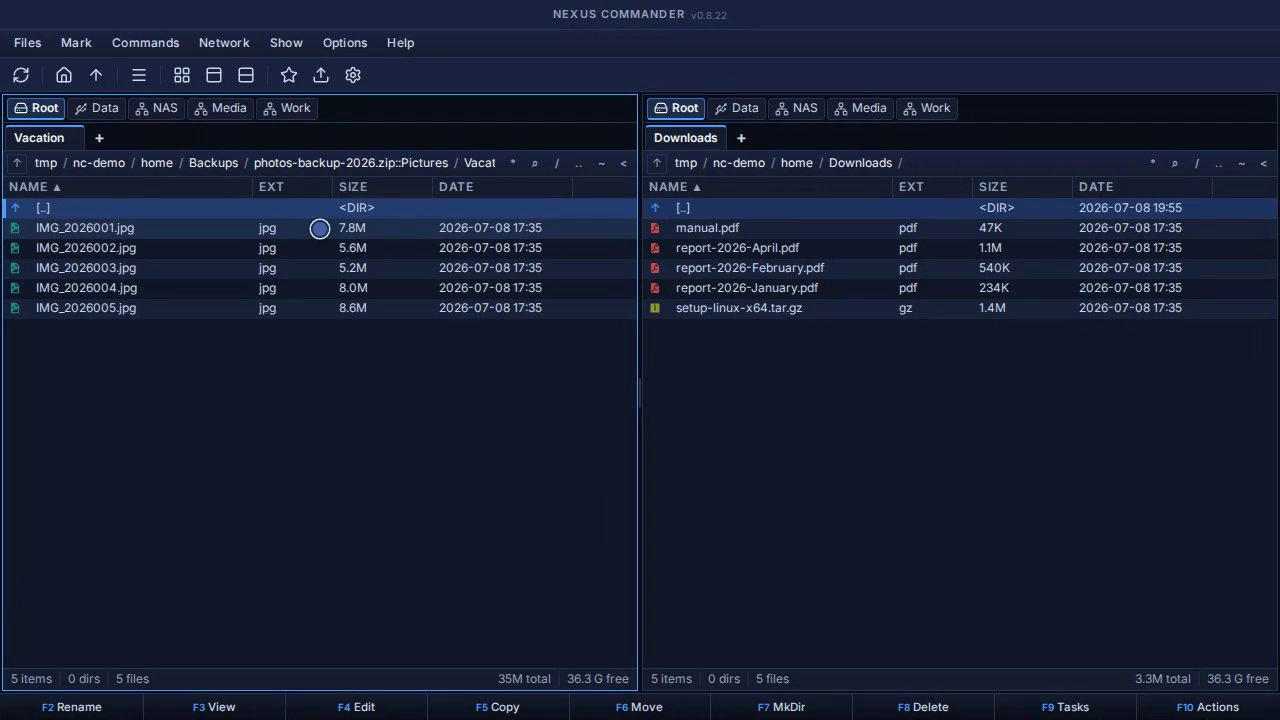
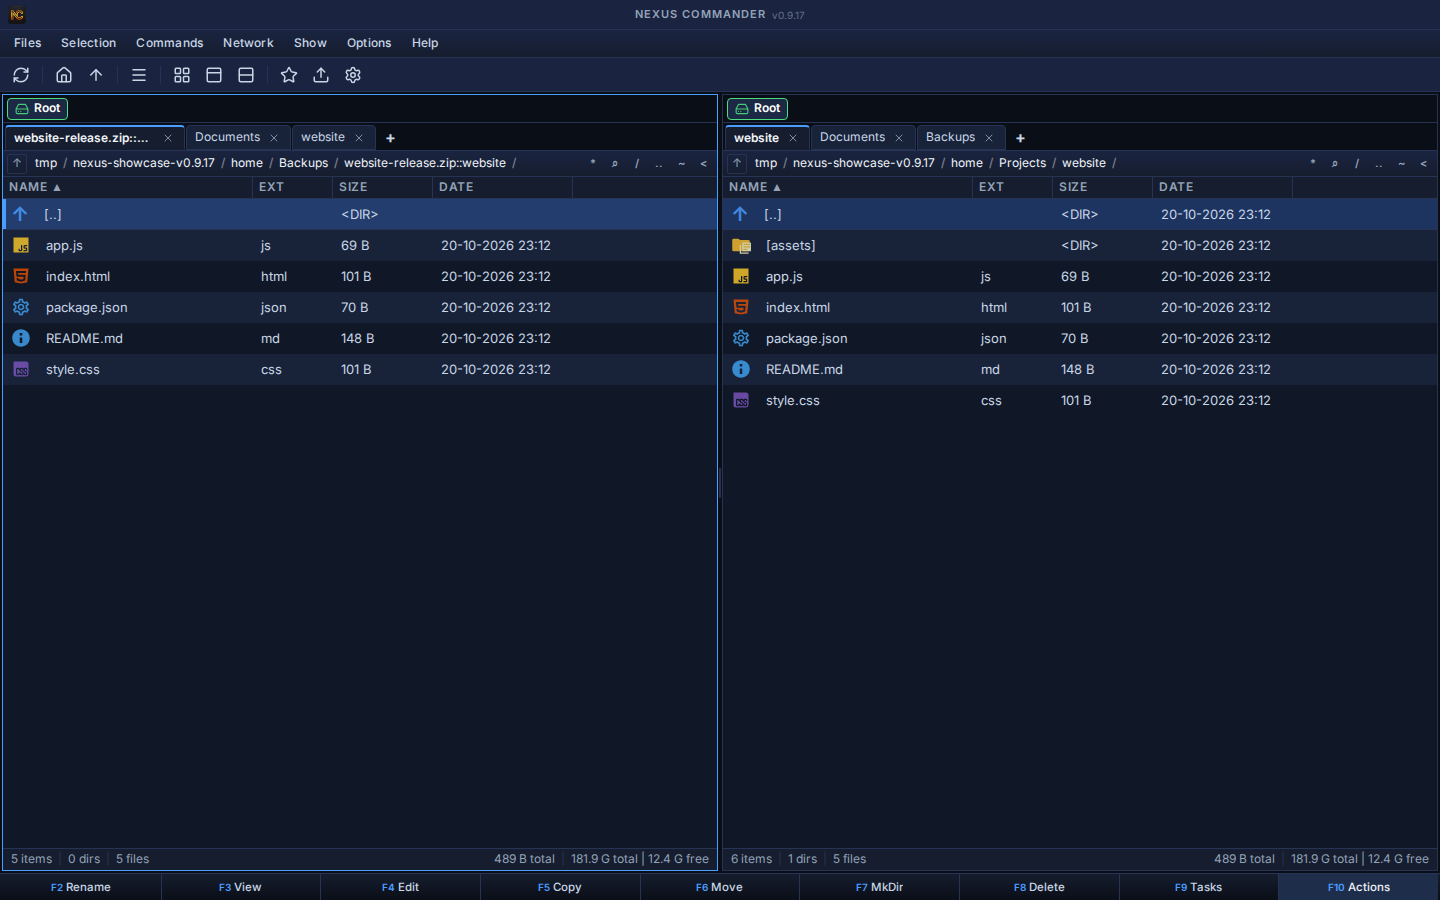
Release v0.9.17

diff --git a/apps/web/README.md b/apps/web/README.md
@@ -2,7 +2,7 @@
 
 A web-native, dual-pane (orthodox) file manager. SvelteKit frontend, Express backend, installable as a PWA — no Electron.
 
-[![NexusCommander dual-pane browsing demo](docs/media/demo-videos/01-dual-pane-browsing.gif)](docs/media/demo-videos/01-dual-pane-browsing.mp4)
+[![NexusCommander 0.9.17 — dual-pane browsing](docs/media/screenshots/dual-pane-browsing.png)](docs/media/screenshots/dual-pane-browsing.png)
 
 ## The Origin Story
 
@@ -30,17 +30,17 @@ Nexus Commander is a dual-pane file manager with a SvelteKit frontend and an Exp
 
 ## See It in Action
 
-Click a preview to watch the short demo.
+Screenshots from **v0.9.17**, using demonstration files. Click a preview to see it at full size.
 
 | Core workflow | Themes |
 | --- | --- |
-| [![Dual-pane browsing](docs/media/screenshots/dual-pane-browsing.png)](docs/media/demo-videos/01-dual-pane-browsing.mp4)<br>**Dual-pane browsing** | [![Light themes](docs/media/screenshots/light-themes.png)](docs/media/demo-videos/04-light-themes.mp4)<br>**Light theme gallery** |
-| [![Copy files with F5](docs/media/screenshots/copy-with-f5.png)](docs/media/demo-videos/02-copy-with-f5.mp4)<br>**Copy files with F5** | [![Light mode in use](docs/media/screenshots/light-mode-in-use.png)](docs/media/demo-videos/05-light-mode-in-use.mp4)<br>**Light mode in use** |
-| [![Browse archives as folders](docs/media/screenshots/archives-as-folders.png)](docs/media/demo-videos/03-archives-as-folders.mp4)<br>**Browse archives as folders** | [![Dark themes](docs/media/screenshots/dark-themes.png)](docs/media/demo-videos/06-dark-themes.mp4)<br>**Dark theme gallery** |
+| [![Dual-pane browsing](docs/media/screenshots/dual-pane-browsing.png)](docs/media/screenshots/dual-pane-browsing.png)<br>**Dual-pane browsing** | [![Light themes](docs/media/screenshots/light-themes.png)](docs/media/screenshots/light-themes.png)<br>**GitHub Light** |
+| [![Copy files with F5](docs/media/screenshots/copy-with-f5.png)](docs/media/screenshots/copy-with-f5.png)<br>**Copy files with F5** | [![Light mode in use](docs/media/screenshots/light-mode-in-use.png)](docs/media/screenshots/light-mode-in-use.png)<br>**Catppuccin Latte** |
+| [![Browse archives as folders](docs/media/screenshots/archives-as-folders.png)](docs/media/screenshots/archives-as-folders.png)<br>**Browse archives as folders** | [![Dark themes](docs/media/screenshots/dark-themes.png)](docs/media/screenshots/dark-themes.png)<br>**Dracula** |
 
 ### Nortonly Dark Theme
 
-[![NexusCommander using the Nortonly dark theme](docs/media/screenshots/nortonly.png)](docs/media/demo-videos/06-dark-themes.mp4)
+[![NexusCommander using the Nortonly dark theme](docs/media/screenshots/nortonly.png)](docs/media/screenshots/nortonly.png)
 
 ## Stack
 

diff --git a/README.md b/README.md
@@ -1,6 +1,19 @@
 # NexusCommander (monorepo)
 
-Eén repo met een **gedeelde Svelte-frontend** die twee shells voedt:
+Eén repo met een **gedeelde Svelte-frontend** die twee shells voedt.
+
+[![NexusCommander 0.9.17 — dubbele panelen met het Midnight-thema](apps/web/docs/media/screenshots/dual-pane-browsing.png)](apps/web/docs/media/screenshots/dual-pane-browsing.png)
+
+Actuele screenshots van de webversie **0.9.17**, met demonstratiebestanden. Klik op een afbeelding voor het volledige formaat.
+
+| Bestandsbeheer | Thema's |
+| --- | --- |
+| [![Kopiëren met F5](apps/web/docs/media/screenshots/copy-with-f5.png)](apps/web/docs/media/screenshots/copy-with-f5.png)<br>Kopiëren met F5 | [![GitHub Light](apps/web/docs/media/screenshots/light-themes.png)](apps/web/docs/media/screenshots/light-themes.png)<br>GitHub Light |
+| [![ZIP-archief als map openen](apps/web/docs/media/screenshots/archives-as-folders.png)](apps/web/docs/media/screenshots/archives-as-folders.png)<br>Archieven als mappen | [![Dracula](apps/web/docs/media/screenshots/dark-themes.png)](apps/web/docs/media/screenshots/dark-themes.png)<br>Dracula |
+
+[Alle screenshots en thema's →](apps/web/README.md#see-it-in-action)
+
+## Monorepo
 
 ```
 NexusCommander/

diff --git a/apps/web/docs/media/screenshots/README.md b/apps/web/docs/media/screenshots/README.md
@@ -1,0 +1,19 @@
+# Screenshots
+
+Captured from the NexusCommander **0.9.17** production web build on 20 October 2026.
+All images are 1440 × 900 PNG screenshots of the running application, using
+demonstration files and isolated browser profiles. Host-specific mounts are
+excluded from the drive list; only the real root drive is shown.
+
+| File | Scene |
+| --- | --- |
+| `dual-pane-browsing.png` | Midnight theme, folder tabs and multiple selected files |
+| `copy-with-f5.png` | F5 copy confirmation for two selected reports |
+| `archives-as-folders.png` | Browsing a ZIP alongside its original project files |
+| `light-themes.png` | GitHub Light theme |
+| `light-mode-in-use.png` | Catppuccin Latte theme |
+| `dark-themes.png` | Dracula theme |
+| `nortonly.png` | Nortonly theme |
+
+The older videos in the neighbouring `demo-videos` directory are historical
+recordings, not demonstrations of this release.
